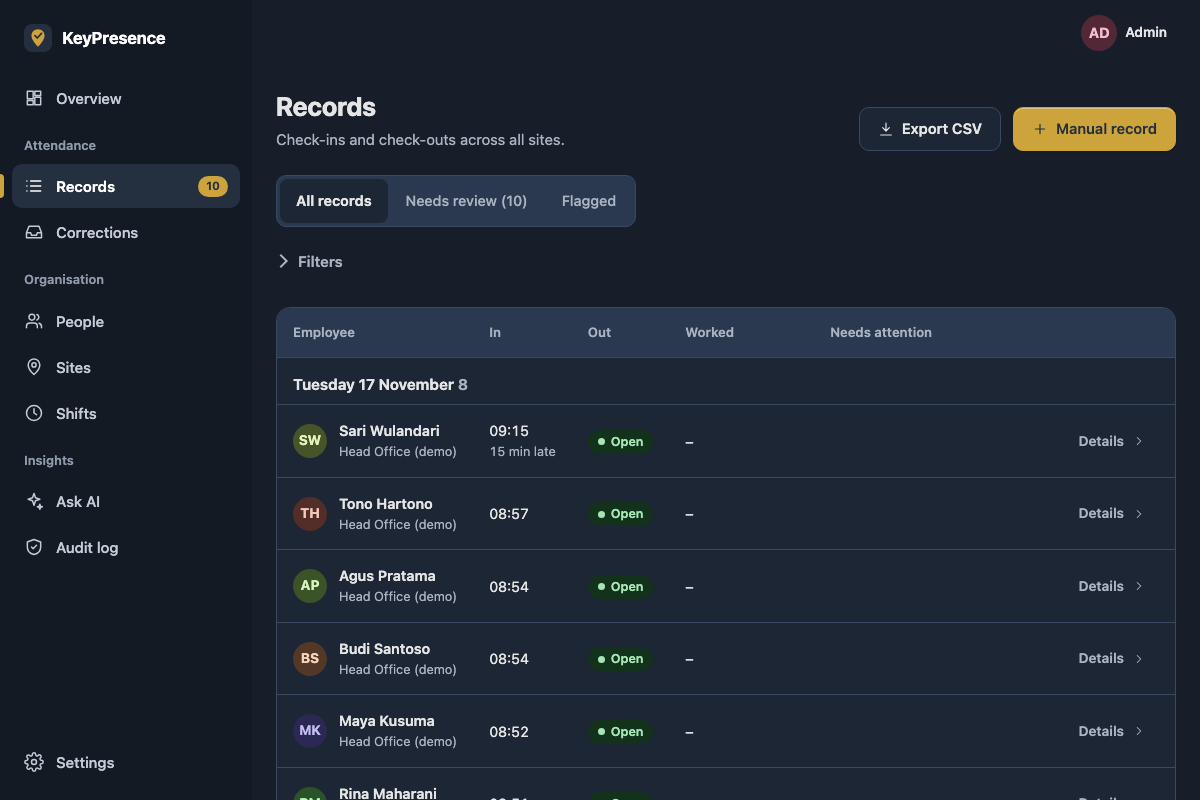
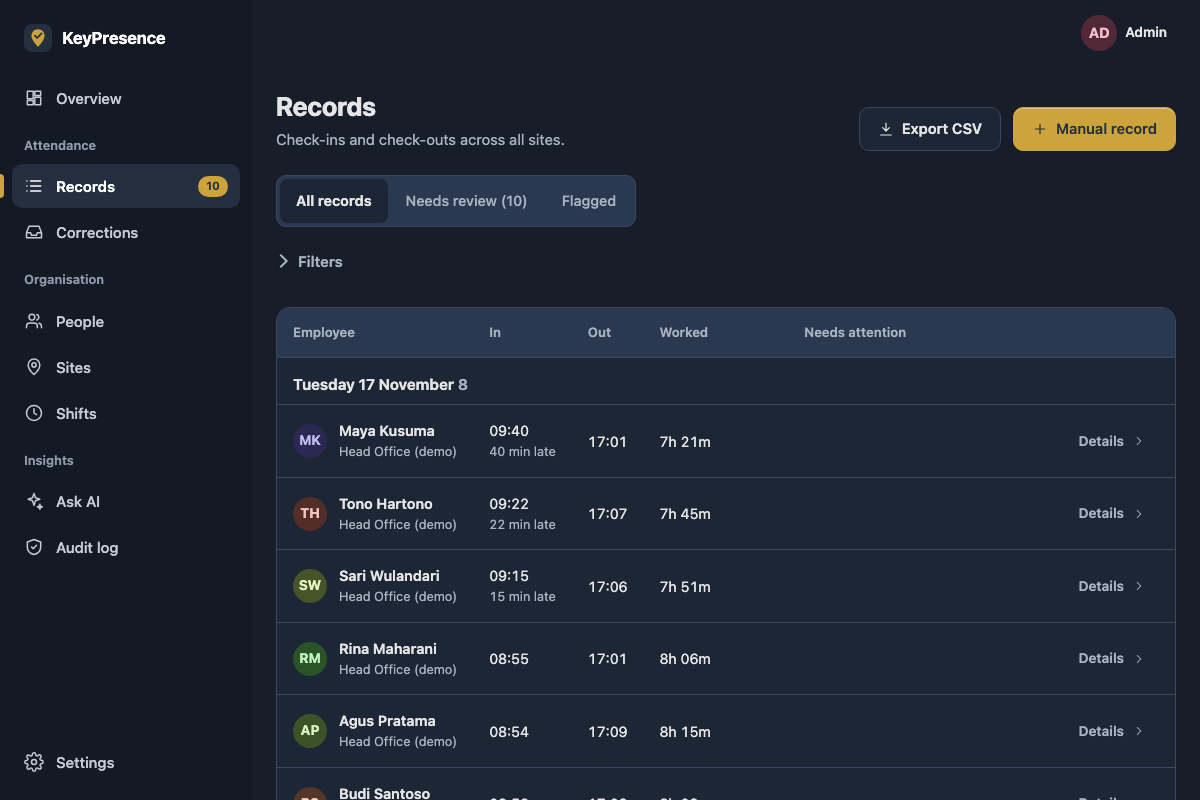
Retake README screenshots; demo seed stores worked and overtime minutes for today's closed records

diff --git a/src/server/seed.ts b/src/server/seed.ts
@@ -98,9 +98,9 @@ export async function seedDemo(deps: Deps, opts: { history?: boolean; today?: bo
         const outAt = end < now ? new Date(end.getTime() + Math.floor(rand() * 10) * 60000) : null;
         const m = computeMetrics(e.shift, inAt, outAt ?? now, tz);
         await db.query(
-          `INSERT INTO checkins(user_id, site_id, kind, status, day, check_in_at, check_out_at, in_lat, in_lng, in_accuracy_m, in_distance_m, in_flags, out_flags, review_status, shift_id, late_minutes)
-           VALUES ($1,$2,'attendance',$3,$4,$5,$6,-6.175392,106.827153,12.5,18.2,'{}','{}','none',$7,$8)`,
-          [e.id, hq, outAt ? 'closed' : 'open', today, inAt, outAt, e.shift.id, m.lateMinutes]);
+          `INSERT INTO checkins(user_id, site_id, kind, status, day, check_in_at, check_out_at, in_lat, in_lng, in_accuracy_m, in_distance_m, in_flags, out_flags, review_status, shift_id, late_minutes, overtime_minutes, work_minutes)
+           VALUES ($1,$2,'attendance',$3,$4,$5,$6,-6.175392,106.827153,12.5,18.2,'{}','{}','none',$7,$8,$9,$10)`,
+          [e.id, hq, outAt ? 'closed' : 'open', today, inAt, outAt, e.shift.id, m.lateMinutes, outAt ? m.overtimeMinutes : null, outAt ? m.workMinutes : null]);
       }
     }
   }
